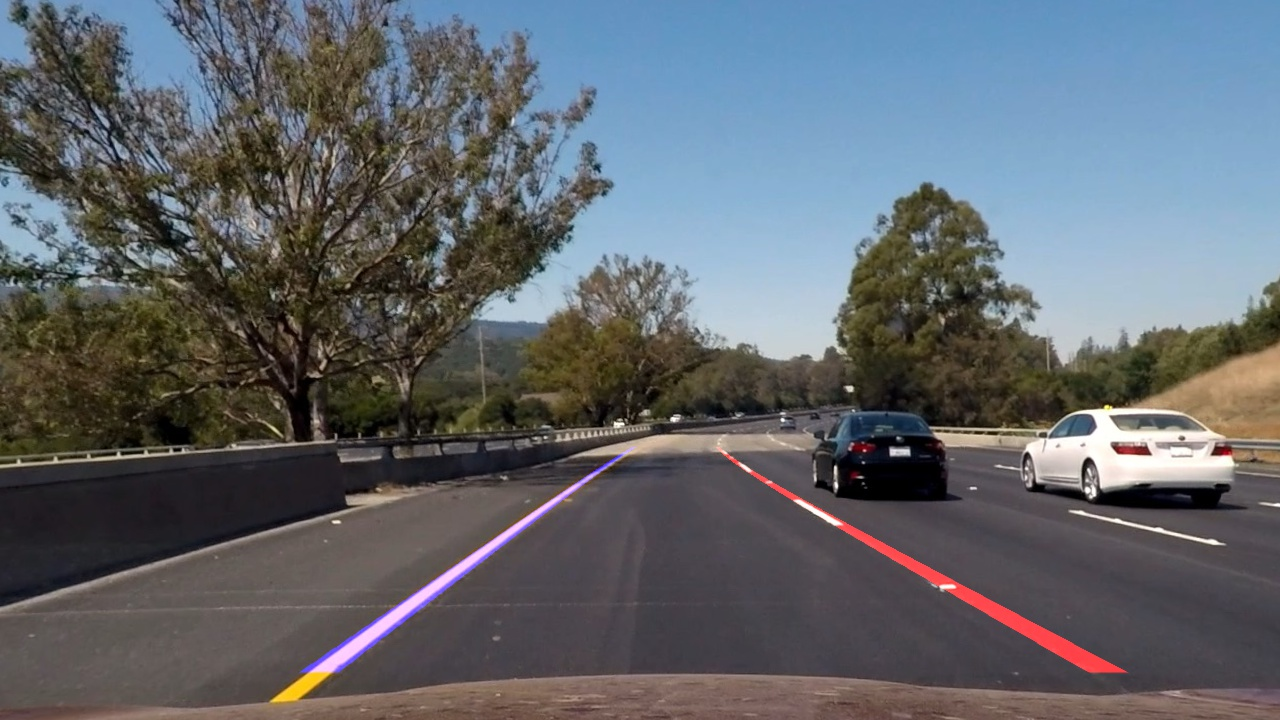
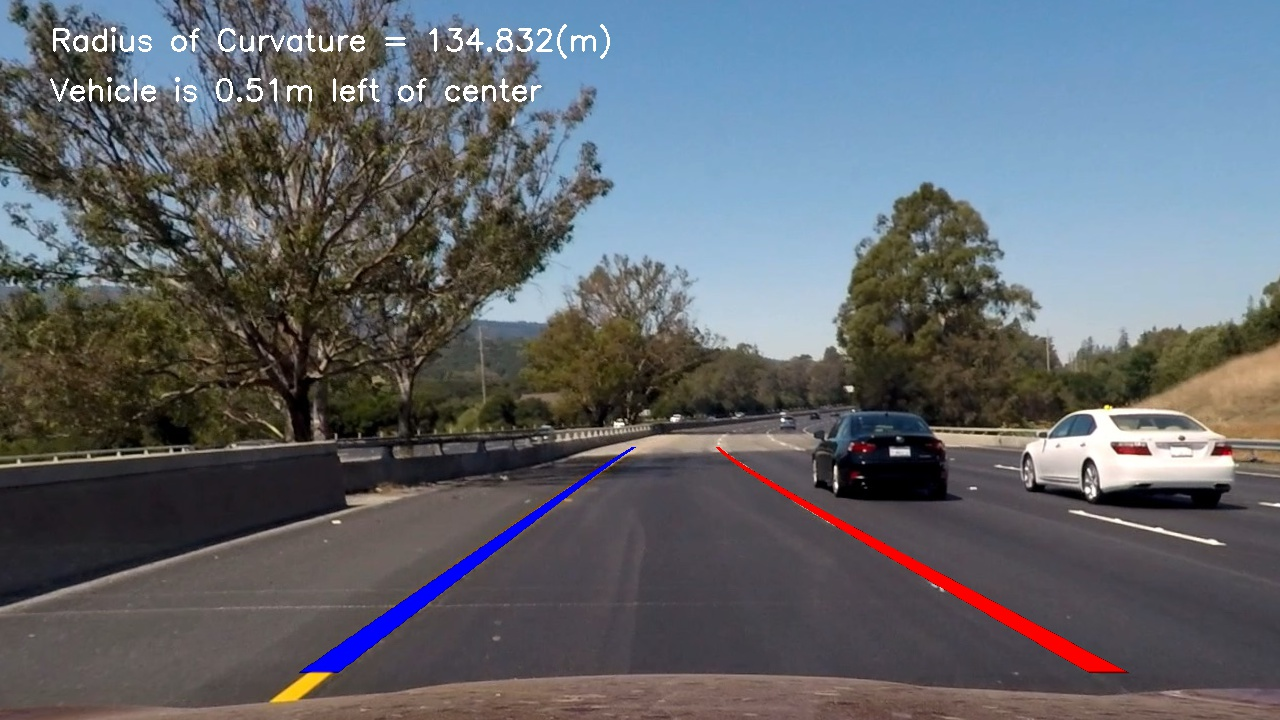
draw the text on image

diff --git a/image_gen.py b/image_gen.py
@@ -171,14 +171,31 @@ for idx, fname in enumerate(images):
     cv2.fillPoly(road, [left_lane], color=[255, 0, 0])
     cv2.fillPoly(road, [right_lane], color=[0, 0, 255])
     
-    #road_bkg = np.zeros_like(img)
-    #cv2.fillPoly(road_bkg, [left_lane], color=[255, 255, 255])
-    #cv2.fillPoly(road_bkg, [right_lane], color=[255, 255, 255])
+    road_bkg = np.zeros_like(img)
+    cv2.fillPoly(road_bkg, [left_lane], color=[255, 255, 255])
+    cv2.fillPoly(road_bkg, [right_lane], color=[255, 255, 255])
 
     road_warped = cv2.warpPerspective(road, Minv, img_size, flags=cv2.INTER_LINEAR)
-    #road_warped_bkg = cv2.warpPerspective(road_bkg, Minv, img_size, flags=cv2.INTER_LINEAR)
+    road_warped_bkg = cv2.warpPerspective(road_bkg, Minv, img_size, flags=cv2.INTER_LINEAR)
 
-    result = cv2.addWeighted(img, 1.0, road_warped, 1.0, 0.0)
+    base = cv2.addWeighted(img, 1.0, road_warped_bkg, -1.0, 0.0)
+    result = cv2.addWeighted(base, 1.0, road_warped, 1.0, 0.0)
+
+    ym_per_pix = curve_centers.ym_per_pix # meters per pixel in y dimension
+    xm_per_pix = curve_centers.xm_per_pix # meters per pixel in x dimension 
+    curve_fit_cr = np.polyfit(np.array(res_yvals, np.float32) * ym_per_pix, np.array(leftx, np.float32)*xm_per_pix, 2)
+    curverad = ((1 + (2 * curve_fit_cr[0] * yvals[-1] * ym_per_pix + curve_fit_cr[1]) **2)**1.5) / np.absolute(2 * curve_fit_cr[0])
+ 
+    #calculate the offset of the car on the road
+    camera_center = (left_fitx[-1] + right_fitx[-1])/2
+    center_diff = (camera_center-warped.shape[1]/2)*xm_per_pix
+    side_pos = 'left'
+    if center_diff <= 0:
+        side_pos = 'right'
+
+    #draw the text showing curvature, offset and speed
+    cv2.putText(result, 'Radius of Curvature = '+ str(round(curverad, 3)) + '(m)', (50,50), cv2.FONT_HERSHEY_SIMPLEX, 1, (255, 255, 255), 2)
+    cv2.putText(result, 'Vehicle is '+ str(abs(round(center_diff, 3))) + 'm ' + side_pos + ' of center', (50, 100), cv2.FONT_HERSHEY_SIMPLEX, 1, (255, 255, 255), 2)
 
     #result = warped
     #result = road
